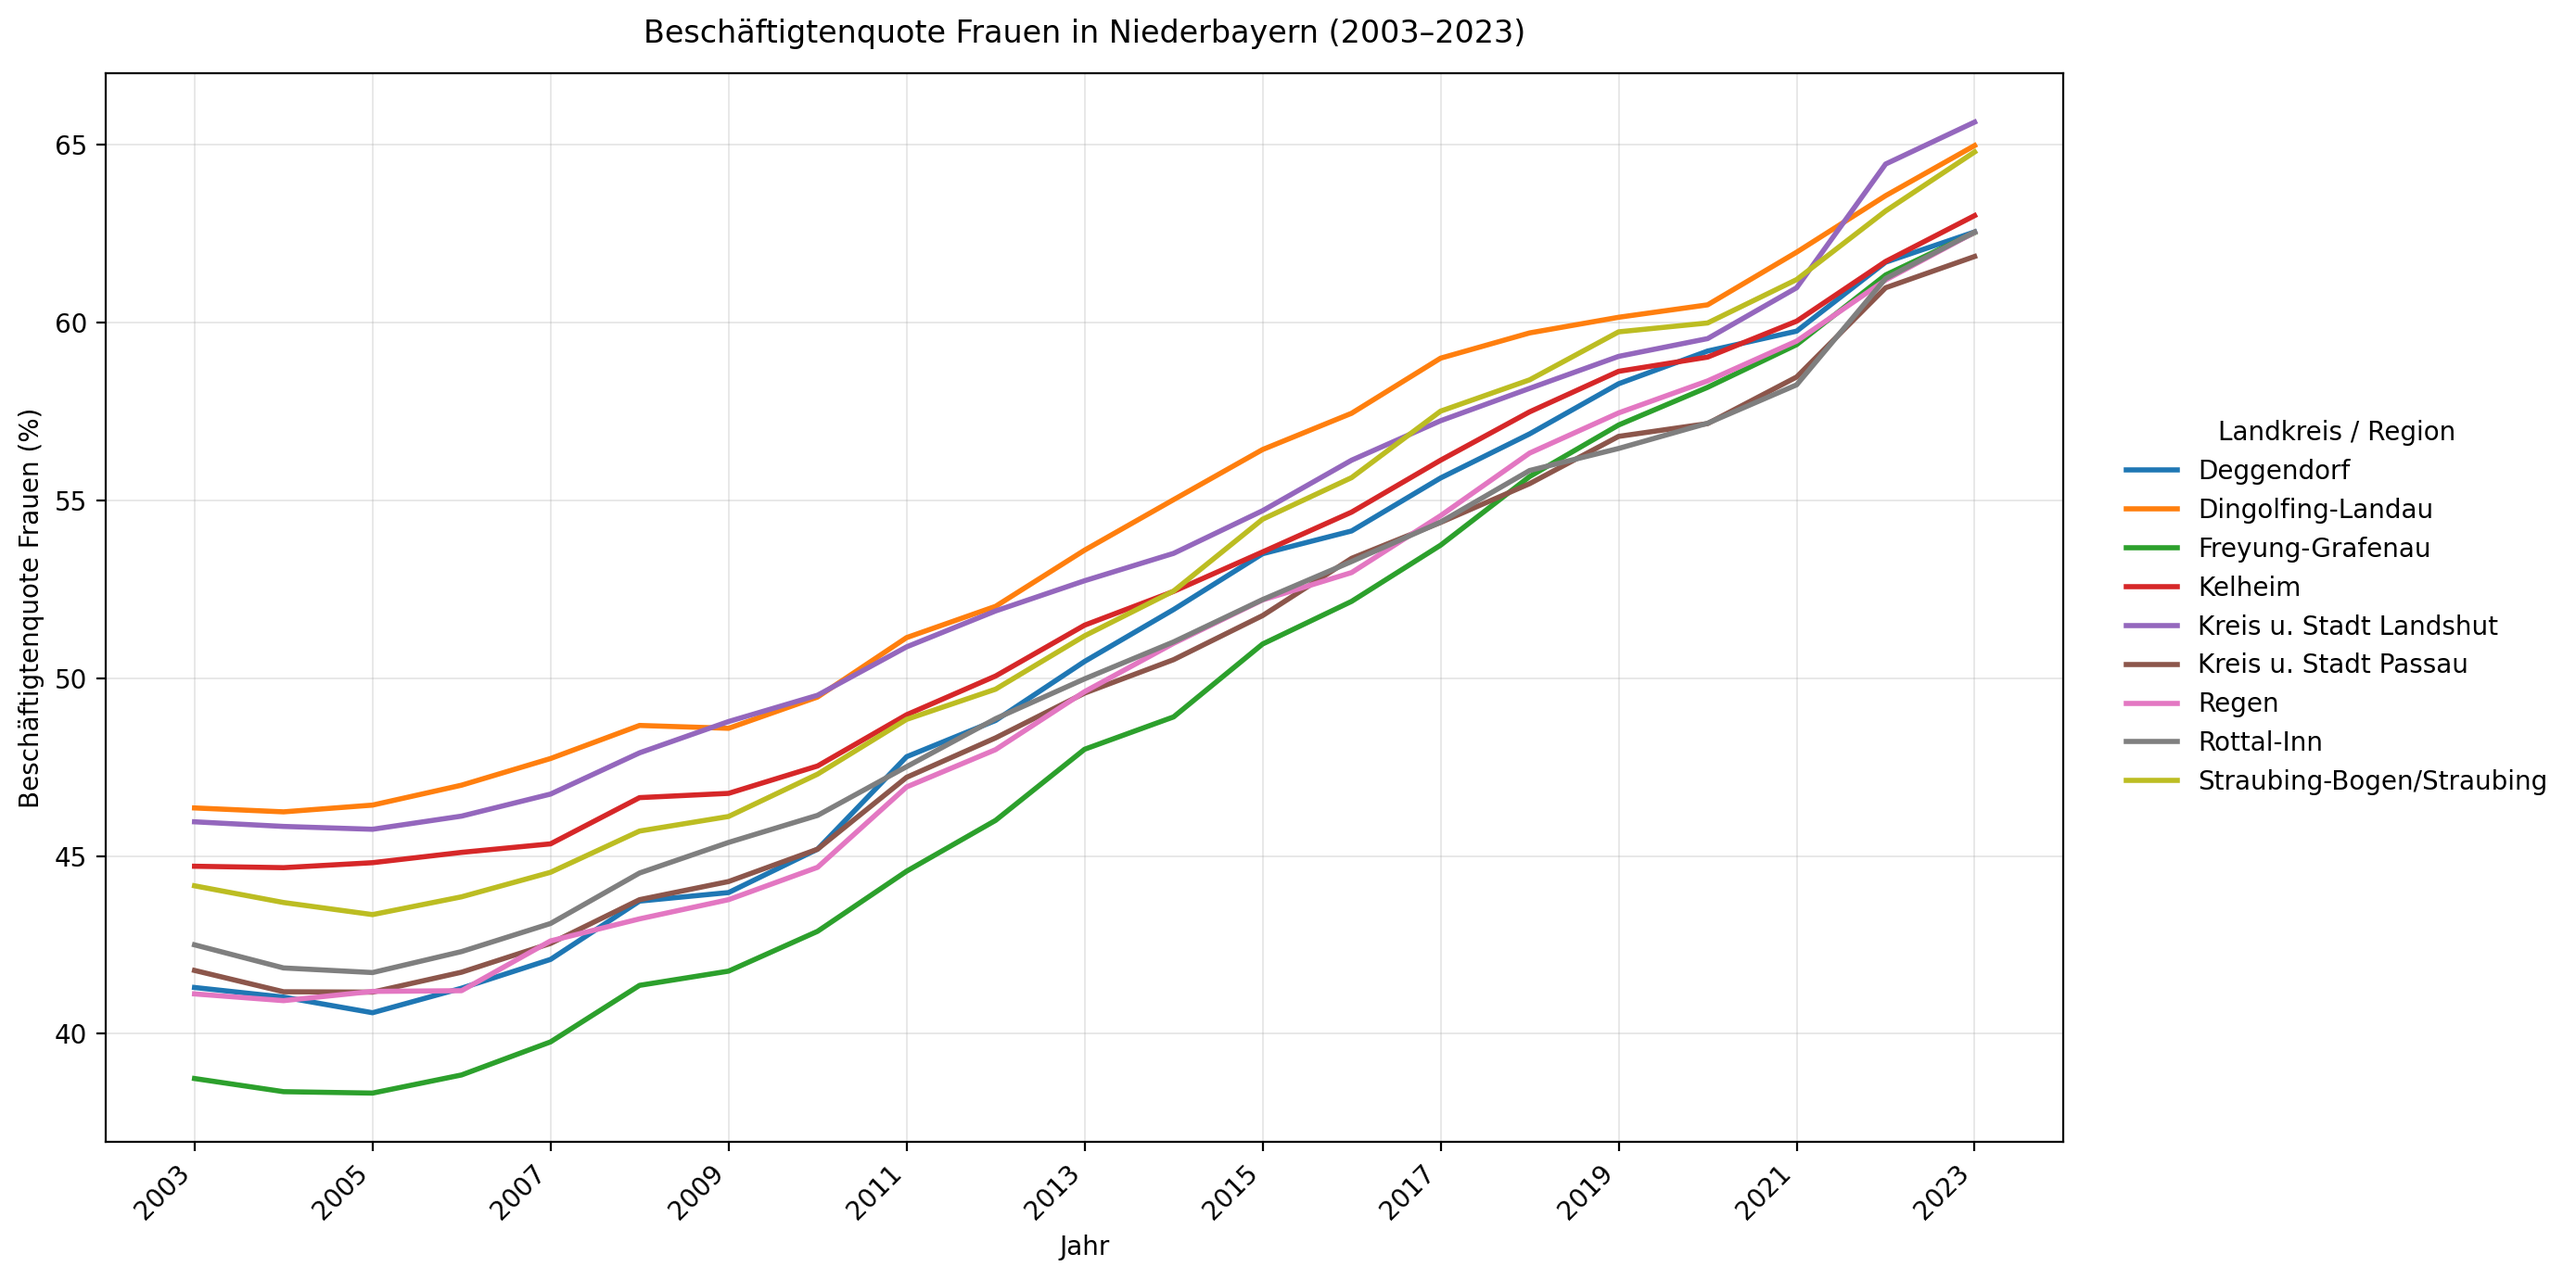
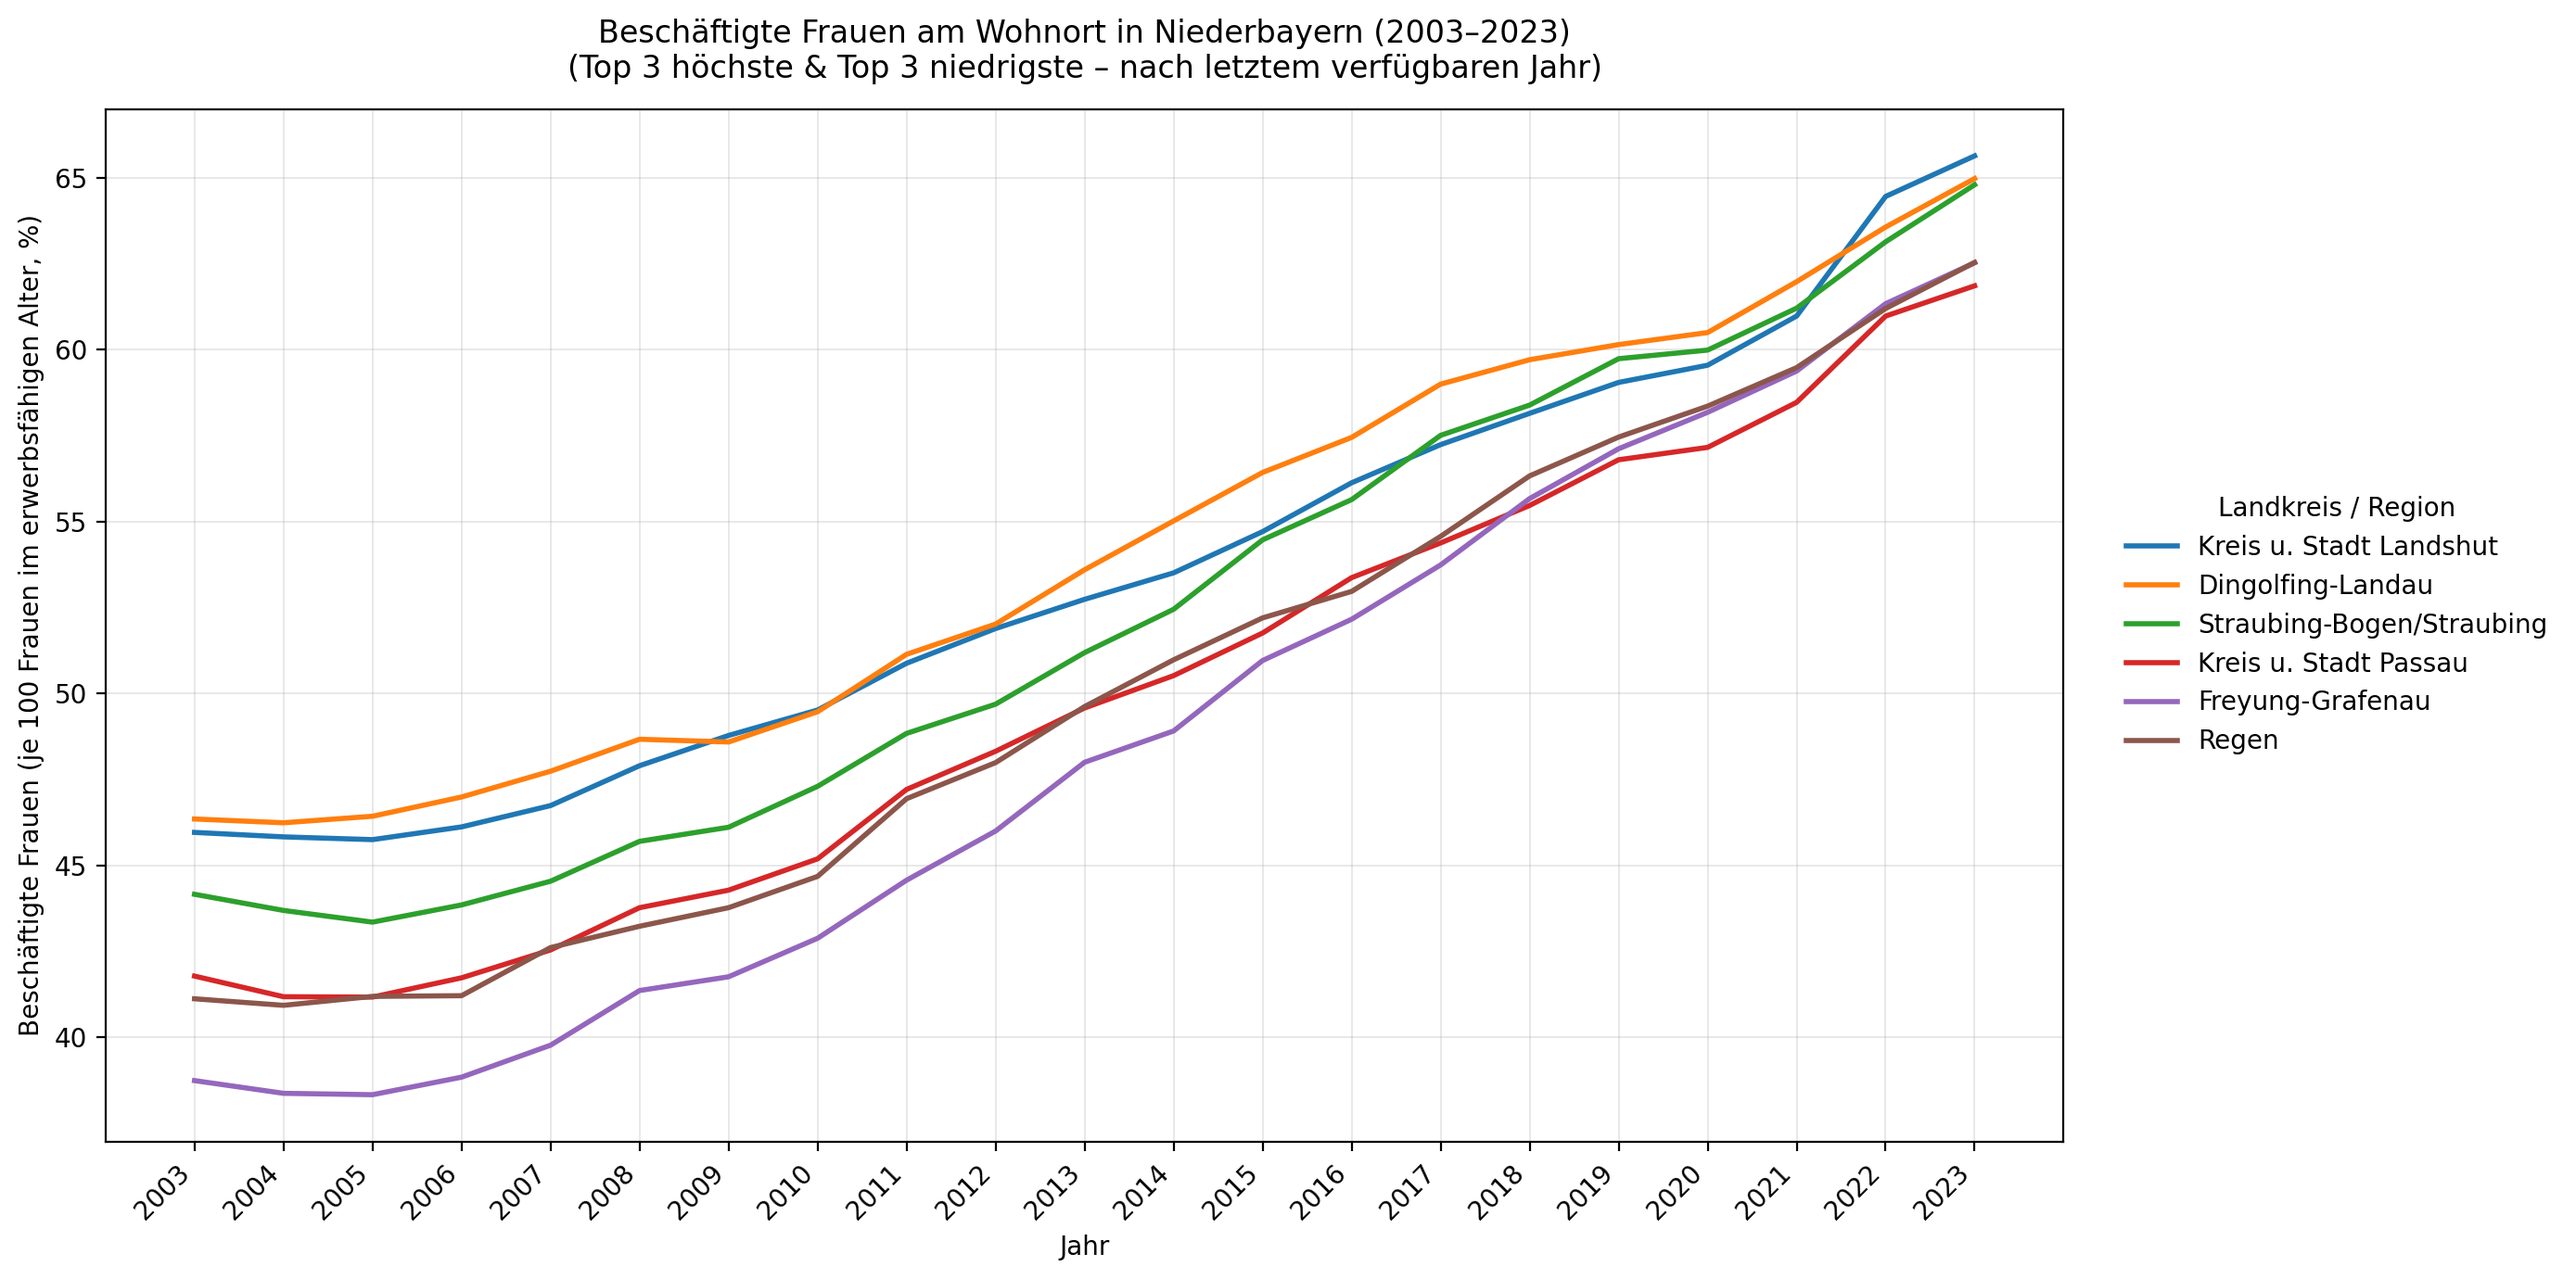
changed

diff --git a/src/analysis_kinder.py b/src/analysis_kinder.py
@@ -16,6 +16,10 @@ FILES = {
     "Erwerbstätige_Frauen": os.path.join(DATA_DIR, "Erwerbstätige Frauen.csv"),
 }
 
+YEAR_START = 2003
+YEAR_END = 2023
+
+
 # =========================
 # INKAR CSV einlesen (Jahre sind in der ersten Datenzeile)
 # =========================
@@ -53,27 +57,59 @@ def read_inkar_table(path: str) -> pd.DataFrame:
     long_df["Wert"] = pd.to_numeric(long_df["Wert"], errors="coerce")
 
     long_df = long_df.dropna(subset=["Jahr"]).sort_values(["Raumeinheit", "Jahr"]).reset_index(drop=True)
+
+    # Auf gewünschten Zeitraum begrenzen
+    long_df = long_df[(long_df["Jahr"] >= YEAR_START) & (long_df["Jahr"] <= YEAR_END)].copy()
+
     return long_df
 
+
 # =========================
-# Plot
+# Helfer: Top 3 / Bottom 3 nach letztem verfügbaren Jahr je Region
 # =========================
-def plot_lines(long_df: pd.DataFrame, title: str, y_label: str, out_name: str):
+def select_top_bottom_regions(piv: pd.DataFrame, top_n: int = 3, bottom_n: int = 3) -> pd.DataFrame:
+    # letztes verfügbares (nicht-NaN) Jahr je Region
+    last_vals = piv.apply(lambda col: col.dropna().iloc[-1] if col.dropna().shape[0] > 0 else pd.NA)
+    last_vals = last_vals.dropna().astype(float)
+
+    if last_vals.empty:
+        return piv  # fallback
+
+    top_regions = last_vals.sort_values(ascending=False).head(top_n).index.tolist()
+    bottom_regions = last_vals.sort_values(ascending=True).head(bottom_n).index.tolist()
+
+    # Reihenfolge: erst Top, dann Bottom (ohne Duplikate)
+    regions = []
+    for r in top_regions + bottom_regions:
+        if r not in regions:
+            regions.append(r)
+
+    return piv[regions]
+
+
+# =========================
+# Plot (nur Top 3 + Bottom 3) + Jahre 2003–2023
+# =========================
+def plot_lines_top_bottom(long_df: pd.DataFrame, title: str, y_label: str, out_name: str):
     piv = long_df.pivot_table(index="Jahr", columns="Raumeinheit", values="Wert", aggfunc="first").sort_index()
 
-    fig, ax = plt.subplots(figsize=(14, 7))
-    piv.plot(ax=ax, linewidth=2)
+    # Jahre 2003–2023 immer vollständig anzeigen
+    full_years = list(range(YEAR_START, YEAR_END + 1))
+    piv = piv.reindex(full_years)
 
-    ax.set_title(title, pad=12)
+    # Auswahl: Top 3 / Bottom 3
+    piv_sel = select_top_bottom_regions(piv, top_n=3, bottom_n=3)
+
+    fig, ax = plt.subplots(figsize=(14, 7))
+    piv_sel.plot(ax=ax, linewidth=2)
+
+    ax.set_title(f"{title}\n(Top 3 höchste & Top 3 niedrigste – nach letztem verfügbaren Jahr)", pad=12)
     ax.set_xlabel("Jahr")
     ax.set_ylabel(y_label)
 
-    years = piv.index.dropna().astype(int).tolist()
-    if years:
-        step = 2
-        xticks = years[::step]
-        ax.set_xticks(xticks)
-        ax.set_xticklabels([str(y) for y in xticks], rotation=45, ha="right")
+    # Alle Jahre anzeigen
+    ax.set_xticks(full_years)
+    ax.set_xticklabels([str(y) for y in full_years], rotation=45, ha="right")
 
     ax.grid(True, linewidth=0.6, alpha=0.35)
     ax.legend(title="Landkreis / Region", loc="center left", bbox_to_anchor=(1.02, 0.5), frameon=False)
@@ -82,21 +118,48 @@ def plot_lines(long_df: pd.DataFrame, title: str, y_label: str, out_name: str):
     plt.savefig(os.path.join(PROJECT_ROOT, out_name), dpi=200, bbox_inches="tight")
     plt.show()
 
+
 # =========================
-# Hauptteil
+# Hauptteil (4 Diagramme)
 # =========================
 def main():
+    # 1) Einwohner unter 6 Jahre (Anteil in %)
     df_kinder = read_inkar_table(FILES["Kinder_0_6"])
-    plot_lines(df_kinder, "Einwohner unter 6 Jahre in Niederbayern (2003–2023)", "Einwohner unter 6 Jahre", "plot_kinder_0_6.png")
+    plot_lines_top_bottom(
+        df_kinder,
+        "Einwohner unter 6 Jahre in Niederbayern (2003–2023)",
+        "Anteil der Einwohner unter 6 Jahren an den Einwohnern (%)",
+        "plot_kinder_0_6.png",
+    )
 
+    # 2) Betreuungsquote Kleinkinder (U3 in Kitas)
     df_betreuung = read_inkar_table(FILES["Kinderbetreuung"])
-    plot_lines(df_betreuung, "Betreuungsquote Kleinkinder in Niederbayern (2003–2023)", "Betreuungsquote (%)", "plot_kinderbetreuung.png")
+    plot_lines_top_bottom(
+        df_betreuung,
+        "Betreuungsquote Kleinkinder in Niederbayern (2003–2023)",
+        "Betreuungsquote Kleinkinder (Anteil U3 in Kindertageseinrichtungen, %)",
+        "plot_kinderbetreuung.png",
+    )
 
+    # 3) Geborene (je 1.000 Einwohner)
     df_geborene = read_inkar_table(FILES["Geborene"])
-    plot_lines(df_geborene, "Geborene in Niederbayern (2003–2023)", "Geborene", "plot_geborene.png")
+    plot_lines_top_bottom(
+        df_geborene,
+        "Geborene in Niederbayern (2003–2023)",
+        "Geborene (je 1.000 Einwohner)",
+        "plot_geborene.png",
+    )
 
+    # 4) Beschäftigte Frauen am Wohnort (je 100 Frauen im erwerbsfähigen Alter, %)
     df_frauen = read_inkar_table(FILES["Erwerbstätige_Frauen"])
-    plot_lines(df_frauen, "Beschäftigtenquote Frauen in Niederbayern (2003–2023)", "Beschäftigtenquote Frauen (%)", "plot_erwerbstaetige_frauen.png")
+    plot_lines_top_bottom(
+        df_frauen,
+        "Beschäftigte Frauen am Wohnort in Niederbayern (2003–2023)",
+        "Beschäftigte Frauen (je 100 Frauen im erwerbsfähigen Alter, %)",
+        "plot_erwerbstaetige_frauen.png",
+    )
+
 
 if __name__ == "__main__":
     main()
+
